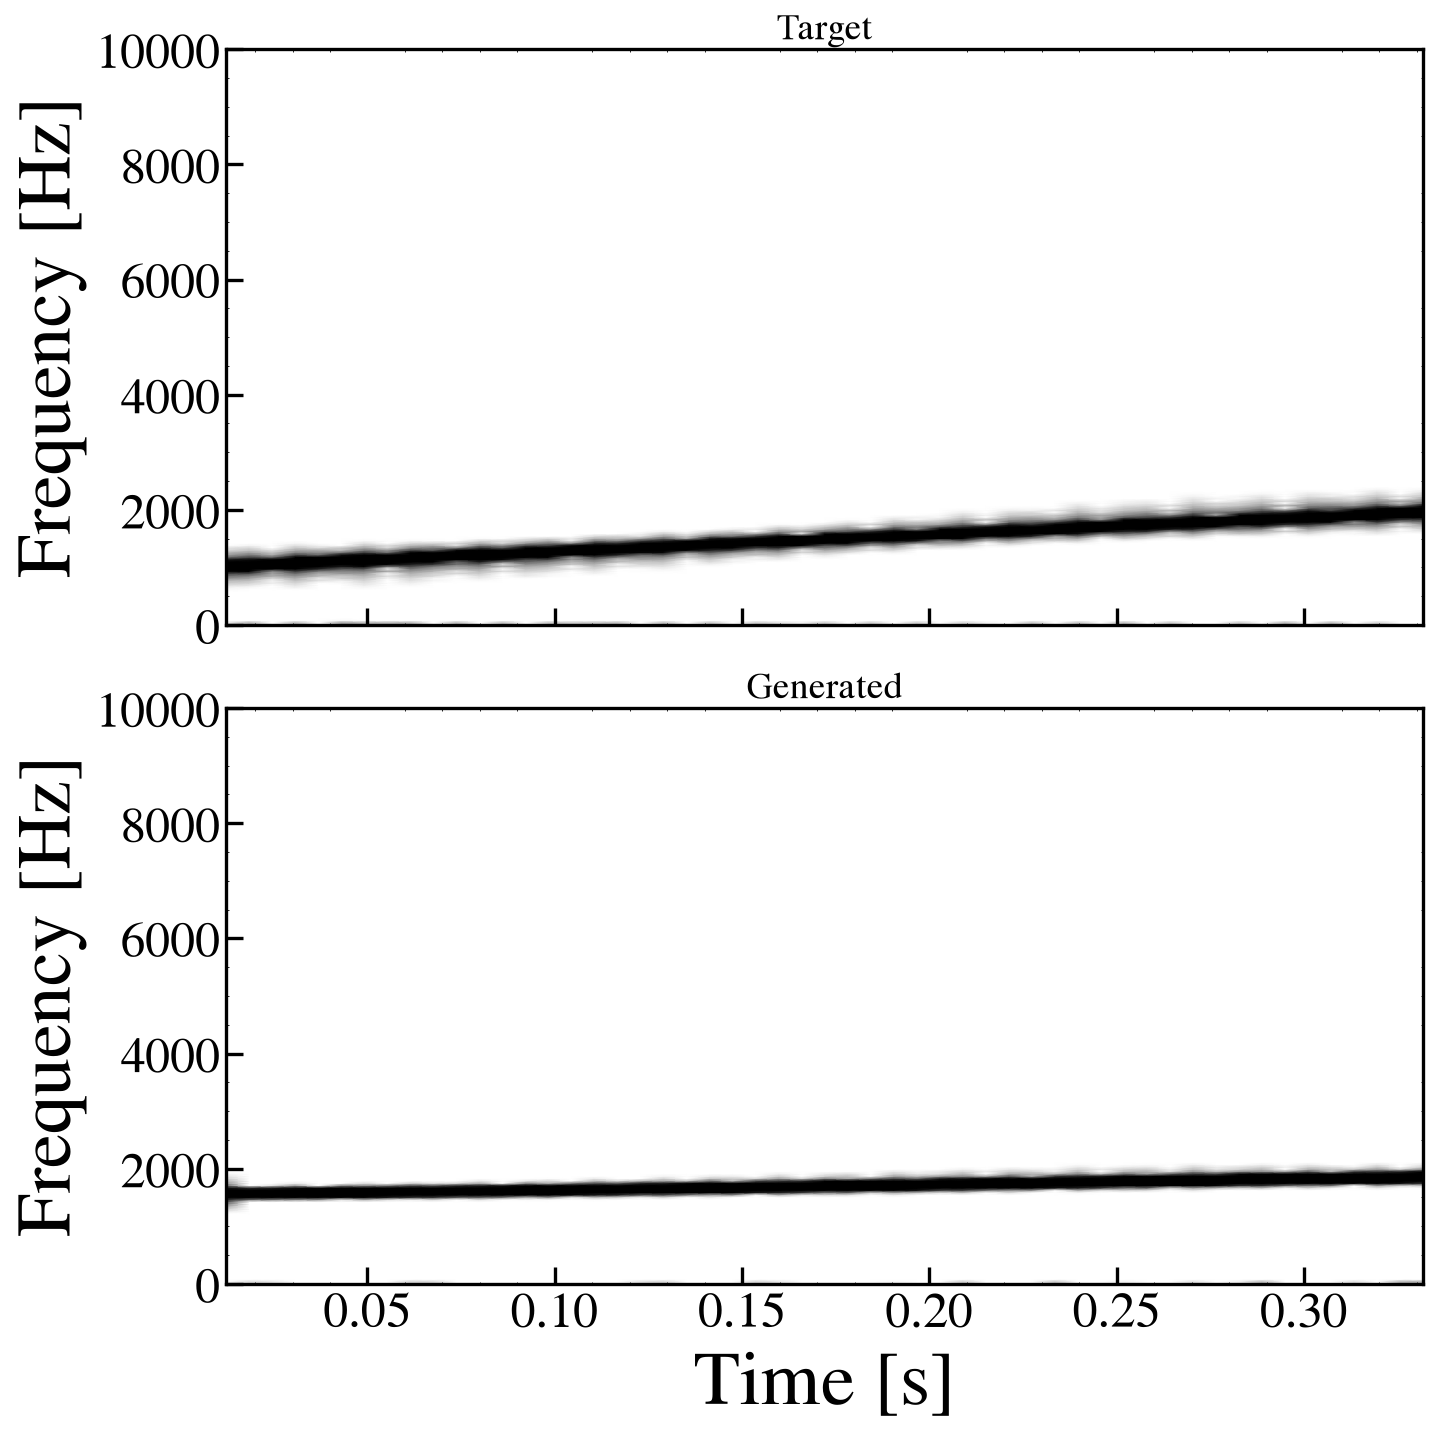
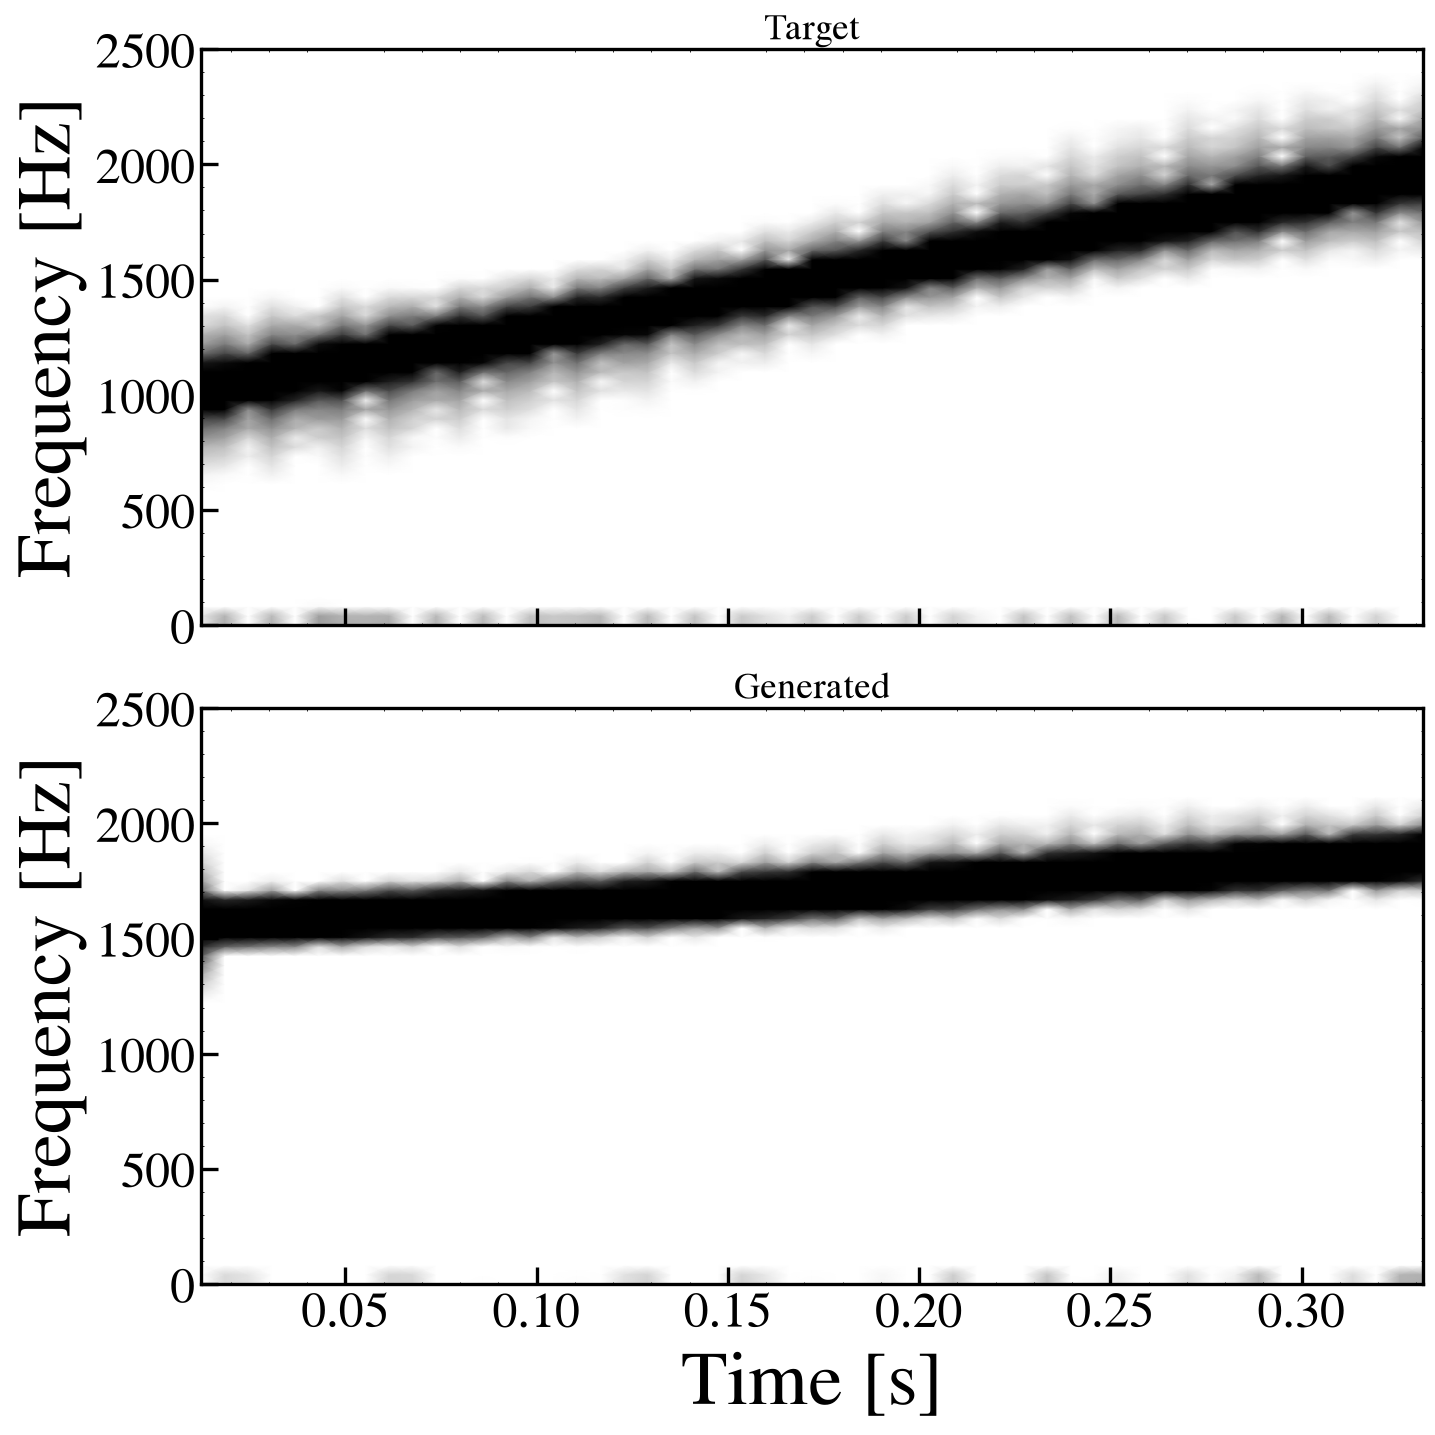
2026/11/8

diff --git a/Deeplearning/plotting.py b/Deeplearning/plotting.py
@@ -2,6 +2,7 @@
 import matplotlib
 matplotlib.use("Agg")
 import matplotlib.pyplot as plt
+from matplotlib.lines import Line2D
 import numpy as np
 import scienceplots  # noqa: F401 registers styles
 from scipy import signal
@@ -19,6 +20,7 @@ CMAP = "gray_r"
 VMIN = -50.0
 VMAX = -20.0
 MAX_HZ = 10000
+PHASE0_MAX_HZ = 2500
 CONTROL_LABELS = (r"$\varepsilon_l$", r"$\varepsilon_r$", r"$p_s$",
                   r"$f_{e,l}$", r"$f_{e,r}$")
 
@@ -71,7 +73,7 @@ def display_spectrum(x, rate):
     return f[keep], t, db[keep]
 
 
-def draw_spectrogram(ax, x, rate):
+def draw_spectrogram(ax, x, rate, *, max_hz=MAX_HZ):
     x = waveform(x)
     if not np.isfinite(rate) or rate <= 0:
         raise ValueError("sample rate must be finite and positive")
@@ -87,7 +89,7 @@ def draw_spectrogram(ax, x, rate):
         raise ValueError("At least two complete spectrogram windows are required for display")
     mesh = ax.pcolormesh(t, f, db, shading="gouraud", cmap=CMAP,
                          vmin=VMIN, vmax=VMAX, rasterized=True)
-    ax.set_ylim(0, min(MAX_HZ, rate/2))
+    ax.set_ylim(0, min(max_hz, MAX_HZ, rate/2))
     # Gouraud shading spans the actual frame centers; do not extrapolate pixels
     # back to t=0 or out to the end of the recording.
     ax.set_xlim(float(t[0]), float(t[-1]))
@@ -98,12 +100,12 @@ def draw_spectrogram(ax, x, rate):
     return mesh
 
 
-def comparison(target, generated, rate, output):
+def comparison(target, generated, rate, output, *, max_hz=MAX_HZ):
     with plt.style.context(["science", "ieee", "no-latex"]):
         fig, axes = plt.subplots(2, 1, figsize=(12, 12), sharex=True)
         try:
             for ax, x, title in zip(axes, (target, generated), ("Target", "Generated")):
-                draw_spectrogram(ax, x, rate)
+                draw_spectrogram(ax, x, rate, max_hz=max_hz)
                 ax.set_title(title, fontsize=22)
             axes[-1].set_xlabel("Time [s]", fontsize=46)
             fig.tight_layout()
@@ -175,6 +177,66 @@ def phase0_learning_curves(curves, output):
             for spine in ax.spines.values():
                 spine.set_linewidth(2)
             ax.legend(fontsize=30, loc="upper right", ncol=3)
+            fig.tight_layout()
+            fig.savefig(output, bbox_inches="tight", pad_inches=.1, dpi=120)
+        finally:
+            plt.close(fig)
+
+
+def phase0_all_seed_learning_curves(curves, output):
+    """Plot all nine recorded runs; color is method, marker is run 0/1/2.
+
+    ``curves[method][seed]`` contains the original (steps, errors) arrays.
+    Separate legend rows identify method colors and run marker shapes.
+    """
+    colors = {"PPO": "#0072B2", "TD3": "#009E73", "SAC": "#D55E00"}
+    markers = {0: "o", 1: "s", 2: "^"}
+    evaluation_steps = np.arange(0, 4097, 512)
+    for name in colors:
+        for seed in markers:
+            steps, errors = curves[name][seed]
+            if not np.array_equal(steps, evaluation_steps):
+                raise ValueError(f"{name}, run {seed}: expected evaluations at 0, 512, ..., 4096 steps")
+            if (np.shape(errors) != evaluation_steps.shape or
+                    not np.isfinite(errors).all() or np.any(np.asarray(errors) < 0)):
+                raise ValueError(f"{name}, run {seed}: expected nine finite nonnegative acoustic errors")
+
+    maximum = max(max(curves[name][seed][1]) for name in colors for seed in markers)
+    upper = max(.2, float(np.ceil(maximum * 1.2 * 10) / 10))
+    with plt.style.context(["science", "ieee", "no-latex"]), \
+            plt.rc_context({"path.simplify": False}):
+        fig, ax = plt.subplots(figsize=(16, 10))
+        try:
+            for name, color in colors.items():
+                for seed, marker in markers.items():
+                    steps, errors = curves[name][seed]
+                    ax.plot(steps, errors, color=color, alpha=.8, linewidth=2.8,
+                            linestyle="-", solid_capstyle="round", solid_joinstyle="round",
+                            marker=marker, markersize=14, markerfacecolor="white",
+                            markeredgecolor=color, markeredgewidth=2.3, clip_on=False,
+                            label=f"{name} ({seed})")
+            ax.set_xlabel("Training steps", fontsize=46)
+            ax.set_ylabel("Acoustic error", fontsize=46)
+            ax.set_xlim(0, 4096)
+            ax.set_xticks(evaluation_steps)
+            ax.set_ylim(0, upper)
+            ax.tick_params(labelsize=30, width=2, length=10, direction="in",
+                           top=False, right=False)
+            for spine in ax.spines.values():
+                spine.set_linewidth(2)
+            method_handles = [Line2D([], [], color=color, alpha=.8, linewidth=2.8,
+                                     linestyle="-", label=name)
+                              for name, color in colors.items()]
+            method_legend = ax.legend(handles=method_handles, fontsize=30,
+                                      loc="upper right", ncol=3, frameon=False)
+            ax.add_artist(method_legend)
+            seed_handles = [Line2D([], [], color="black", linestyle="None", marker=marker,
+                                   markersize=14, markerfacecolor="white", markeredgewidth=2.3,
+                                   label=f"seed {seed}")
+                            for seed, marker in markers.items()]
+            ax.legend(handles=seed_handles, fontsize=30, loc="upper right",
+                      bbox_to_anchor=(1, .91), ncol=3, frameon=False,
+                      handlelength=1, handletextpad=.5, columnspacing=1.5)
             fig.tight_layout()
             fig.savefig(output, bbox_inches="tight", pad_inches=.1, dpi=120)
         finally:

diff --git a/Deeplearning/experiments.py b/Deeplearning/experiments.py
@@ -10,7 +10,8 @@ from stable_baselines3.common.noise import NormalActionNoise
 import torch
 
 from .acoustics import distance, evaluation_features
-from .plotting import comparison, learning_curves, phase0_learning_curves
+from .plotting import (MAX_HZ, PHASE0_MAX_HZ, comparison, learning_curves,
+                       phase0_learning_curves, phase0_all_seed_learning_curves)
 from .sine_env import SineConfig, SineEnv
 
 
@@ -18,19 +19,25 @@ def write_json(path, data):
     Path(path).write_text(json.dumps(data, indent=2, ensure_ascii=False, allow_nan=False)+"\n")
 
 
-def redraw_phase0_learning_curves(directory):
-    """Read saved run-0 curves only; do not train or recompute any errors.
+def redraw_phase0_learning_curves(directory, *, all_seeds=False):
+    """Read saved curves only; do not train or recompute any errors.
 
     Write a separate PNG so the original multi-run learning_curves.png remains.
     """
     directory = Path(directory)
     curves = {}
     for name in ("PPO", "TD3", "SAC"):
-        entries = json.loads((directory/f"{name}_0"/"curve.json").read_text())
-        curves[name] = ([entry["steps"] for entry in entries],
-                        [entry["error"] for entry in entries])
+        curves[name] = {}
+        for seed in ((0, 1, 2) if all_seeds else (0,)):
+            entries = json.loads((directory/f"{name}_{seed}"/"curve.json").read_text())
+            curves[name][seed] = ([entry["steps"] for entry in entries],
+                                  [entry["error"] for entry in entries])
+    if all_seeds:
+        output = directory/"learning_curves_all_seeds_revised.png"
+        phase0_all_seed_learning_curves(curves, output)
+        return output
     output = directory/"learning_curves_revised.png"
-    phase0_learning_curves(curves, output)
+    phase0_learning_curves({name: runs[0] for name, runs in curves.items()}, output)
     return output
 
 
@@ -110,7 +117,7 @@ class EvaluationCallback(BaseCallback):
         return True
 
 
-def train_run(name, seed, train_factory, eval_factory, settings, output):
+def train_run(name, seed, train_factory, eval_factory, settings, output, *, spectrogram_max_hz=MAX_HZ):
     output.mkdir(parents=True, exist_ok=True)
     train_env = train_factory()
     if (getattr(train_env.config, "reward_timing", None) == "aligned" and
@@ -139,7 +146,8 @@ def train_run(name, seed, train_factory, eval_factory, settings, output):
                         motion_mean=np.array([m["mean"] for m in motion]),
                         motion_std=np.array([m["std"] for m in motion]))
     agent.save(output/"agent")
-    comparison(evaluation.target_audio, audio, evaluation.config.sample_rate, output/"spectrogram.png")
+    comparison(evaluation.target_audio, audio, evaluation.config.sample_rate,
+               output/"spectrogram.png", max_hz=spectrogram_max_hz)
     reached = [e["steps"] for e in callback.entries if e["error"] <= settings["threshold"]]
     summary = dict(algorithm=name, seed=seed, requested_steps=settings["steps"],
                    training_steps=agent.num_timesteps,
@@ -183,7 +191,8 @@ def run_phase0(config, output):
         curves[name] = []
         for seed in config["seeds"]:
             print(f"Phase 0: {name}, seed={seed}", flush=True)
-            summary, entries = train_run(name, seed, train_factory, eval_factory, config, output/f"{name}_{seed}")
+            summary, entries = train_run(name, seed, train_factory, eval_factory, config,
+                                         output/f"{name}_{seed}", spectrogram_max_hz=PHASE0_MAX_HZ)
             summaries.append(summary)
             write_json(output/"summary.json", summaries)
             curves[name].append(([e["steps"] for e in entries], [e["error"] for e in entries]))
@@ -283,5 +292,7 @@ if __name__ == "__main__":
     parser.add_argument("--redraw-phase0", type=Path, nargs="?", required=True,
                         const=Path(__file__).resolve().parent/"results"/"phase0",
                         metavar="DIRECTORY", help="Phase 0 results directory (default: results/phase0)")
+    parser.add_argument("--all-seeds", action="store_true",
+                        help="Plot runs 0, 1 and 2 together in a separate revised PNG")
     args = parser.parse_args()
-    print(redraw_phase0_learning_curves(args.redraw_phase0))
+    print(redraw_phase0_learning_curves(args.redraw_phase0, all_seeds=args.all_seeds))

diff --git a/Deeplearning/redraw.py b/Deeplearning/redraw.py
@@ -5,7 +5,7 @@ import os
 import numpy as np
 
 from .model import ROOT
-from .plotting import comparison, single_spectrogram
+from .plotting import MAX_HZ, PHASE0_MAX_HZ, comparison, single_spectrogram
 
 
 def redraw(directory):
@@ -22,16 +22,25 @@ def redraw(directory):
             continue
         with np.load(path, allow_pickle=False) as data:
             for image in images:
-                comparison(data["target"], data["audio"], float(data["sample_rate"]), image)
+                max_hz = (PHASE0_MAX_HZ if path.resolve().is_relative_to(ROOT/"results/phase0")
+                          else MAX_HZ)
+                comparison(data["target"], data["audio"], float(data["sample_rate"]), image,
+                           max_hz=max_hz)
                 count += 1
     return count
 
 
 def main():
     parser = argparse.ArgumentParser(description=__doc__)
-    parser.add_argument("--include-private", action="store_true",
-                        help="Also redraw permission-restricted local experiment plots")
+    scope = parser.add_mutually_exclusive_group()
+    scope.add_argument("--phase0-only", action="store_true",
+                       help="Redraw only Phase 0 spectrograms with a 0–2500 Hz frequency axis")
+    scope.add_argument("--include-private", action="store_true",
+                       help="Also redraw permission-restricted local experiment plots")
     args = parser.parse_args()
+    if args.phase0_only:
+        print(f"Redrew {redraw(ROOT/'results/phase0')} Phase 0 spectrograms (0–2500 Hz)")
+        return
     public_count = redraw(ROOT/"results")
     if (ROOT/"results/reference/reference.npz").is_file():
         from .reproduce import legacy_reference
